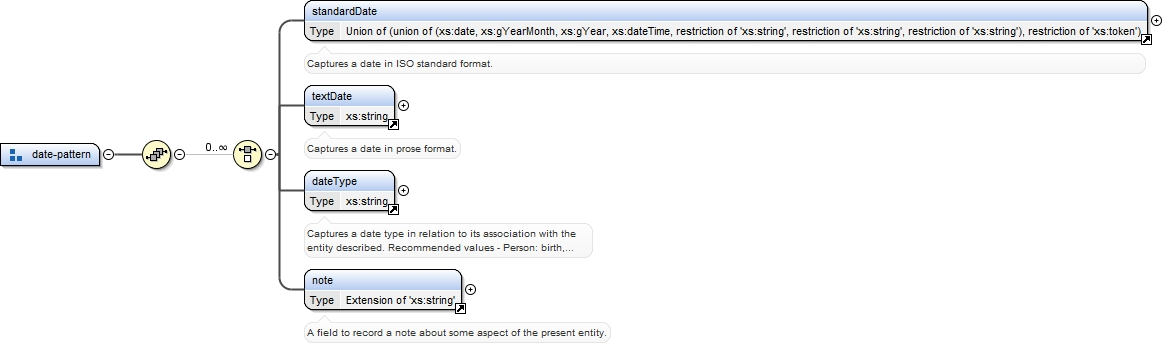
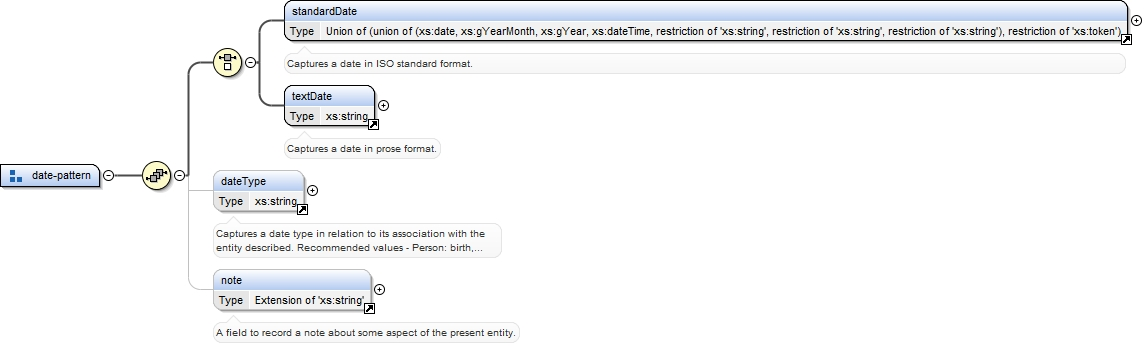
Entities schema and documentation revisions [MRB]

Changed region(s): [[0.0, 0.4046, 0.5201, 1.0], [0.153, 0.0, 1.0, 0.3757]]

diff --git a/schema/documentation/entities/index.html b/schema/documentation/entities/index.html
@@ -2315,7 +2315,7 @@
                            <div class="floatRight"><input id="button_diagram_personRecordInfo-element_recordInfo" type="image" src="img/btM.gif" value="-" onclick="switchState('diagram_personRecordInfo-element_recordInfo');" class="control" /></div>
                         </td>
                         <td class="diagram">
-                           <div id="diagram_personRecordInfo-element_recordInfo" style="display:block"><img alt="Diagram" border="0" src="img/entities_xsd_Element_recordInfo_3.jpeg" usemap="#entities_xsd_Element_recordInfo_3" /><map name="entities_xsd_Element_recordInfo_3" id="entities_xsd_Element_recordInfo_3">
+                           <div id="diagram_personRecordInfo-element_recordInfo" style="display:block"><img alt="Diagram" border="0" src="img/entities_xsd_Element_recordInfo.jpeg" usemap="#entities_xsd_Element_recordInfo" /><map name="entities_xsd_Element_recordInfo" id="entities_xsd_Element_recordInfo">
                                  <area alt="index.tmp#id" href="index.html#id" coords="163,41,240,66" />
                                  <area alt="index.tmp#personTypes" href="index.html#personTypes" coords="220,83,315,108" />
                                  <area alt="index.tmp#originInfo" href="index.html#originInfo" coords="220,163,295,188" />
@@ -4035,7 +4035,7 @@
                            <div class="floatRight"><input id="button_diagram_identity-element_identity" type="image" src="img/btM.gif" value="-" onclick="switchState('diagram_identity-element_identity');" class="control" /></div>
                         </td>
                         <td class="diagram">
-                           <div id="diagram_identity-element_identity" style="display:block"><img alt="Diagram" border="0" src="img/entities_xsd_Element_identity_1.jpeg" usemap="#entities_xsd_Element_identity_1" /><map name="entities_xsd_Element_identity_1" id="entities_xsd_Element_identity_1">
+                           <div id="diagram_identity-element_identity" style="display:block"><img alt="Diagram" border="0" src="img/entities_xsd_Element_identity.jpeg" usemap="#entities_xsd_Element_identity" /><map name="entities_xsd_Element_identity" id="entities_xsd_Element_identity">
                                  <area alt="index.tmp#id" href="index.html#id" coords="147,41,224,66" />
                                  <area alt="index.tmp#preferredForm" href="index.html#preferredForm" coords="204,83,305,108" />
                                  <area alt="index.tmp#displayLabel" href="index.html#displayLabel" coords="204,163,309,207" />
@@ -5663,7 +5663,7 @@
                            <div class="floatRight"><input id="button_diagram_personDescription-element_description" type="image" src="img/btM.gif" value="-" onclick="switchState('diagram_personDescription-element_description');" class="control" /></div>
                         </td>
                         <td class="diagram">
-                           <div id="diagram_personDescription-element_description" style="display:block"><img alt="Diagram" border="0" src="img/entities_xsd_Element_description_1.jpeg" usemap="#entities_xsd_Element_description_1" /><map name="entities_xsd_Element_description_1" id="entities_xsd_Element_description_1">
+                           <div id="diagram_personDescription-element_description" style="display:block"><img alt="Diagram" border="0" src="img/entities_xsd_Element_description.jpeg" usemap="#entities_xsd_Element_description" /><map name="entities_xsd_Element_description" id="entities_xsd_Element_description">
                                  <area alt="index.tmp#id" href="index.html#id" coords="166,41,243,66" />
                                  <area alt="index.tmp#descriptiveNotes" href="index.html#descriptiveNotes" coords="223,83,335,108" />
                                  <area alt="index.tmp#existDates" href="index.html#existDates" coords="223,163,305,188" />
@@ -6334,10 +6334,10 @@
                            <div id="diagram_dateSingle" style="display:block"><img alt="Diagram" border="0" src="img/entities_xsd_Element_dateSingle.jpeg" usemap="#entities_xsd_Element_dateSingle" /><map name="entities_xsd_Element_dateSingle" id="entities_xsd_Element_dateSingle">
                                  <area alt="index.tmp#id" href="index.html#id" coords="143,41,220,66" />
                                  <area alt="index.tmp#NO_NAMESPACE_date-pattern" href="index.html#NO_NAMESPACE_date-pattern" coords="146,79,260,105" />
-                                 <area alt="index.tmp#standardDate" href="index.html#standardDate" coords="305,171,1163,215" />
-                                 <area alt="index.tmp#textDate" href="index.html#textDate" coords="305,256,410,300" />
-                                 <area alt="index.tmp#dateType" href="index.html#dateType" coords="305,341,410,385" />
-                                 <area alt="index.tmp#note" href="index.html#note" coords="305,440,477,484" />
+                                 <area alt="index.tmp#standardDate" href="index.html#standardDate" coords="285,171,1143,215" />
+                                 <area alt="index.tmp#textDate" href="index.html#textDate" coords="285,256,390,300" />
+                                 <area alt="index.tmp#dateType" href="index.html#dateType" coords="214,341,319,385" />
+                                 <area alt="index.tmp#note" href="index.html#note" coords="214,440,386,484" />
                                  <area alt="index.tmp#date-pattern" href="index.html#date-pattern" coords="132,130,246,156" /></map></div>
                         </td>
                      </tr>
@@ -6377,8 +6377,7 @@
                         <td class="firstColumn"><b>Model</b><div class="floatRight"><input id="button_model_dateSingle" type="image" src="img/btM.gif" value="-" onclick="switchState('model_dateSingle');" class="control" /></div>
                         </td>
                         <td>
-                           <div id="model_dateSingle" style="display:block">(<b><a href="index.html#standardDate" target="_self" title="No namespace">standardDate</a></b> | <b><a href="index.html#textDate" target="_self" title="No namespace">textDate</a></b> | <b><a href="index.html#dateType" target="_self" title="No namespace">dateType</a></b> | <b><a href="index.html#note" target="_self" title="No namespace">note</a></b>)
-                           </div>
+                           <div id="model_dateSingle" style="display:block">(<b><a href="index.html#standardDate" target="_self" title="No namespace">standardDate</a></b> | <b><a href="index.html#textDate" target="_self" title="No namespace">textDate</a></b>) , <b><a href="index.html#dateType" target="_self" title="No namespace">dateType{0,1}</a></b> , <b><a href="index.html#note" target="_self" title="No namespace">note{0,1}</a></b></div>
                         </td>
                      </tr>
                      <tr>
@@ -6397,8 +6396,8 @@
                                     <td width="100%"><pre><span class="tEl">&lt;dateSingle</span><span class="tT"> </span><span class="tAN">cert=</span><span class="tAV">""</span><span class="tT"> </span><span class="tAN">xml:id=</span><span class="tAV">""</span><span class="tEl">&gt;</span><span class="tI">
   </span><span class="tEl">&lt;standardDate</span><span class="tEl">&gt;</span><span class="tT" style="white-space:normal">{1,1}</span><span class="tEl">&lt;/standardDate&gt;</span><span class="tI">
   </span><span class="tEl">&lt;textDate</span><span class="tEl">&gt;</span><span class="tT" style="white-space:normal">{1,1}</span><span class="tEl">&lt;/textDate&gt;</span><span class="tI">
-  </span><span class="tEl">&lt;dateType</span><span class="tEl">&gt;</span><span class="tT" style="white-space:normal">{1,1}</span><span class="tEl">&lt;/dateType&gt;</span><span class="tI">
-  </span><span class="tEl">&lt;note</span><span class="tT"> </span><span class="tAN">xml:id=</span><span class="tAV">""</span><span class="tT"> </span><span class="tAN">xml:lang=</span><span class="tAV">""</span><span class="tEl">&gt;</span><span class="tT" style="white-space:normal">{1,1}</span><span class="tEl">&lt;/note&gt;</span><span class="tI">
+  </span><span class="tEl">&lt;dateType</span><span class="tEl">&gt;</span><span class="tT" style="white-space:normal">{0,1}</span><span class="tEl">&lt;/dateType&gt;</span><span class="tI">
+  </span><span class="tEl">&lt;note</span><span class="tT"> </span><span class="tAN">xml:id=</span><span class="tAV">""</span><span class="tT"> </span><span class="tAN">xml:lang=</span><span class="tAV">""</span><span class="tEl">&gt;</span><span class="tT" style="white-space:normal">{0,1}</span><span class="tEl">&lt;/note&gt;</span><span class="tI">
 </span><span class="tEl">&lt;/dateSingle&gt;</span></pre></td>
                                  </tr>
                               </table>
@@ -7052,10 +7051,10 @@
                            <div id="diagram_fromDate" style="display:block"><img alt="Diagram" border="0" src="img/entities_xsd_Element_fromDate.jpeg" usemap="#entities_xsd_Element_fromDate" /><map name="entities_xsd_Element_fromDate" id="entities_xsd_Element_fromDate">
                                  <area alt="index.tmp#id" href="index.html#id" coords="137,41,214,66" />
                                  <area alt="index.tmp#NO_NAMESPACE_date-pattern" href="index.html#NO_NAMESPACE_date-pattern" coords="140,79,254,105" />
-                                 <area alt="index.tmp#standardDate" href="index.html#standardDate" coords="299,171,1157,215" />
-                                 <area alt="index.tmp#textDate" href="index.html#textDate" coords="299,256,404,300" />
-                                 <area alt="index.tmp#dateType" href="index.html#dateType" coords="299,341,404,385" />
-                                 <area alt="index.tmp#note" href="index.html#note" coords="299,440,471,484" />
+                                 <area alt="index.tmp#standardDate" href="index.html#standardDate" coords="279,171,1137,215" />
+                                 <area alt="index.tmp#textDate" href="index.html#textDate" coords="279,256,384,300" />
+                                 <area alt="index.tmp#dateType" href="index.html#dateType" coords="208,341,313,385" />
+                                 <area alt="index.tmp#note" href="index.html#note" coords="208,440,380,484" />
                                  <area alt="index.tmp#date-pattern" href="index.html#date-pattern" coords="126,130,240,156" /></map></div>
                         </td>
                      </tr>
@@ -7095,8 +7094,7 @@
                         <td class="firstColumn"><b>Model</b><div class="floatRight"><input id="button_model_fromDate" type="image" src="img/btM.gif" value="-" onclick="switchState('model_fromDate');" class="control" /></div>
                         </td>
                         <td>
-                           <div id="model_fromDate" style="display:block">(<b><a href="index.html#standardDate" target="_self" title="No namespace">standardDate</a></b> | <b><a href="index.html#textDate" target="_self" title="No namespace">textDate</a></b> | <b><a href="index.html#dateType" target="_self" title="No namespace">dateType</a></b> | <b><a href="index.html#note" target="_self" title="No namespace">note</a></b>)
-                           </div>
+                           <div id="model_fromDate" style="display:block">(<b><a href="index.html#standardDate" target="_self" title="No namespace">standardDate</a></b> | <b><a href="index.html#textDate" target="_self" title="No namespace">textDate</a></b>) , <b><a href="index.html#dateType" target="_self" title="No namespace">dateType{0,1}</a></b> , <b><a href="index.html#note" target="_self" title="No namespace">note{0,1}</a></b></div>
                         </td>
                      </tr>
                      <tr>
@@ -7115,8 +7113,8 @@
                                     <td width="100%"><pre><span class="tEl">&lt;fromDate</span><span class="tT"> </span><span class="tAN">cert=</span><span class="tAV">""</span><span class="tT"> </span><span class="tAN">xml:id=</span><span class="tAV">""</span><span class="tEl">&gt;</span><span class="tI">
   </span><span class="tEl">&lt;standardDate</span><span class="tEl">&gt;</span><span class="tT" style="white-space:normal">{1,1}</span><span class="tEl">&lt;/standardDate&gt;</span><span class="tI">
   </span><span class="tEl">&lt;textDate</span><span class="tEl">&gt;</span><span class="tT" style="white-space:normal">{1,1}</span><span class="tEl">&lt;/textDate&gt;</span><span class="tI">
-  </span><span class="tEl">&lt;dateType</span><span class="tEl">&gt;</span><span class="tT" style="white-space:normal">{1,1}</span><span class="tEl">&lt;/dateType&gt;</span><span class="tI">
-  </span><span class="tEl">&lt;note</span><span class="tT"> </span><span class="tAN">xml:id=</span><span class="tAV">""</span><span class="tT"> </span><span class="tAN">xml:lang=</span><span class="tAV">""</span><span class="tEl">&gt;</span><span class="tT" style="white-space:normal">{1,1}</span><span class="tEl">&lt;/note&gt;</span><span class="tI">
+  </span><span class="tEl">&lt;dateType</span><span class="tEl">&gt;</span><span class="tT" style="white-space:normal">{0,1}</span><span class="tEl">&lt;/dateType&gt;</span><span class="tI">
+  </span><span class="tEl">&lt;note</span><span class="tT"> </span><span class="tAN">xml:id=</span><span class="tAV">""</span><span class="tT"> </span><span class="tAN">xml:lang=</span><span class="tAV">""</span><span class="tEl">&gt;</span><span class="tT" style="white-space:normal">{0,1}</span><span class="tEl">&lt;/note&gt;</span><span class="tI">
 </span><span class="tEl">&lt;/fromDate&gt;</span></pre></td>
                                  </tr>
                               </table>
@@ -7243,10 +7241,10 @@
                            <div id="diagram_toDate" style="display:block"><img alt="Diagram" border="0" src="img/entities_xsd_Element_toDate.jpeg" usemap="#entities_xsd_Element_toDate" /><map name="entities_xsd_Element_toDate" id="entities_xsd_Element_toDate">
                                  <area alt="index.tmp#id" href="index.html#id" coords="124,41,201,66" />
                                  <area alt="index.tmp#NO_NAMESPACE_date-pattern" href="index.html#NO_NAMESPACE_date-pattern" coords="127,79,241,105" />
-                                 <area alt="index.tmp#standardDate" href="index.html#standardDate" coords="286,171,1144,215" />
-                                 <area alt="index.tmp#textDate" href="index.html#textDate" coords="286,256,391,300" />
-                                 <area alt="index.tmp#dateType" href="index.html#dateType" coords="286,341,391,385" />
-                                 <area alt="index.tmp#note" href="index.html#note" coords="286,440,458,484" />
+                                 <area alt="index.tmp#standardDate" href="index.html#standardDate" coords="266,171,1124,215" />
+                                 <area alt="index.tmp#textDate" href="index.html#textDate" coords="266,256,371,300" />
+                                 <area alt="index.tmp#dateType" href="index.html#dateType" coords="195,341,300,385" />
+                                 <area alt="index.tmp#note" href="index.html#note" coords="195,440,367,484" />
                                  <area alt="index.tmp#date-pattern" href="index.html#date-pattern" coords="113,130,227,156" /></map></div>
                         </td>
                      </tr>
@@ -7286,8 +7284,7 @@
                         <td class="firstColumn"><b>Model</b><div class="floatRight"><input id="button_model_toDate" type="image" src="img/btM.gif" value="-" onclick="switchState('model_toDate');" class="control" /></div>
                         </td>
                         <td>
-                           <div id="model_toDate" style="display:block">(<b><a href="index.html#standardDate" target="_self" title="No namespace">standardDate</a></b> | <b><a href="index.html#textDate" target="_self" title="No namespace">textDate</a></b> | <b><a href="index.html#dateType" target="_self" title="No namespace">dateType</a></b> | <b><a href="index.html#note" target="_self" title="No namespace">note</a></b>)
-                           </div>
+                           <div id="model_toDate" style="display:block">(<b><a href="index.html#standardDate" target="_self" title="No namespace">standardDate</a></b> | <b><a href="index.html#textDate" target="_self" title="No namespace">textDate</a></b>) , <b><a href="index.html#dateType" target="_self" title="No namespace">dateType{0,1}</a></b> , <b><a href="index.html#note" target="_self" title="No namespace">note{0,1}</a></b></div>
                         </td>
                      </tr>
                      <tr>
@@ -7306,8 +7303,8 @@
                                     <td width="100%"><pre><span class="tEl">&lt;toDate</span><span class="tT"> </span><span class="tAN">cert=</span><span class="tAV">""</span><span class="tT"> </span><span class="tAN">xml:id=</span><span class="tAV">""</span><span class="tEl">&gt;</span><span class="tI">
   </span><span class="tEl">&lt;standardDate</span><span class="tEl">&gt;</span><span class="tT" style="white-space:normal">{1,1}</span><span class="tEl">&lt;/standardDate&gt;</span><span class="tI">
   </span><span class="tEl">&lt;textDate</span><span class="tEl">&gt;</span><span class="tT" style="white-space:normal">{1,1}</span><span class="tEl">&lt;/textDate&gt;</span><span class="tI">
-  </span><span class="tEl">&lt;dateType</span><span class="tEl">&gt;</span><span class="tT" style="white-space:normal">{1,1}</span><span class="tEl">&lt;/dateType&gt;</span><span class="tI">
-  </span><span class="tEl">&lt;note</span><span class="tT"> </span><span class="tAN">xml:id=</span><span class="tAV">""</span><span class="tT"> </span><span class="tAN">xml:lang=</span><span class="tAV">""</span><span class="tEl">&gt;</span><span class="tT" style="white-space:normal">{1,1}</span><span class="tEl">&lt;/note&gt;</span><span class="tI">
+  </span><span class="tEl">&lt;dateType</span><span class="tEl">&gt;</span><span class="tT" style="white-space:normal">{0,1}</span><span class="tEl">&lt;/dateType&gt;</span><span class="tI">
+  </span><span class="tEl">&lt;note</span><span class="tT"> </span><span class="tAN">xml:id=</span><span class="tAV">""</span><span class="tT"> </span><span class="tAN">xml:lang=</span><span class="tAV">""</span><span class="tEl">&gt;</span><span class="tT" style="white-space:normal">{0,1}</span><span class="tEl">&lt;/note&gt;</span><span class="tI">
 </span><span class="tEl">&lt;/toDate&gt;</span></pre></td>
                                  </tr>
                               </table>
@@ -10166,7 +10163,7 @@
                            <div class="floatRight"><input id="button_diagram_orgRecordInfo-element_recordInfo" type="image" src="img/btM.gif" value="-" onclick="switchState('diagram_orgRecordInfo-element_recordInfo');" class="control" /></div>
                         </td>
                         <td class="diagram">
-                           <div id="diagram_orgRecordInfo-element_recordInfo" style="display:block"><img alt="Diagram" border="0" src="img/entities_xsd_Element_recordInfo_1.jpeg" usemap="#entities_xsd_Element_recordInfo_1" /><map name="entities_xsd_Element_recordInfo_1" id="entities_xsd_Element_recordInfo_1">
+                           <div id="diagram_orgRecordInfo-element_recordInfo" style="display:block"><img alt="Diagram" border="0" src="img/entities_xsd_Element_recordInfo_3.jpeg" usemap="#entities_xsd_Element_recordInfo_3" /><map name="entities_xsd_Element_recordInfo_3" id="entities_xsd_Element_recordInfo_3">
                                  <area alt="index.tmp#id" href="index.html#id" coords="163,41,240,66" />
                                  <area alt="index.tmp#originInfo" href="index.html#originInfo" coords="220,83,295,108" />
                                  <area alt="index.tmp#entityId" href="index.html#entityId" coords="220,177,411,221" />
@@ -11112,7 +11109,7 @@
                            <div class="floatRight"><input id="button_diagram_placeRecordInfo-element_recordInfo" type="image" src="img/btM.gif" value="-" onclick="switchState('diagram_placeRecordInfo-element_recordInfo');" class="control" /></div>
                         </td>
                         <td class="diagram">
-                           <div id="diagram_placeRecordInfo-element_recordInfo" style="display:block"><img alt="Diagram" border="0" src="img/entities_xsd_Element_recordInfo.jpeg" usemap="#entities_xsd_Element_recordInfo" /><map name="entities_xsd_Element_recordInfo" id="entities_xsd_Element_recordInfo">
+                           <div id="diagram_placeRecordInfo-element_recordInfo" style="display:block"><img alt="Diagram" border="0" src="img/entities_xsd_Element_recordInfo_1.jpeg" usemap="#entities_xsd_Element_recordInfo_1" /><map name="entities_xsd_Element_recordInfo_1" id="entities_xsd_Element_recordInfo_1">
                                  <area alt="index.tmp#id" href="index.html#id" coords="163,41,240,66" />
                                  <area alt="index.tmp#originInfo" href="index.html#originInfo" coords="220,83,295,108" />
                                  <area alt="index.tmp#entityId" href="index.html#entityId" coords="220,177,411,221" />
@@ -11270,7 +11267,7 @@
                            <div class="floatRight"><input id="button_diagram_placeDescription-element_description" type="image" src="img/btM.gif" value="-" onclick="switchState('diagram_placeDescription-element_description');" class="control" /></div>
                         </td>
                         <td class="diagram">
-                           <div id="diagram_placeDescription-element_description" style="display:block"><img alt="Diagram" border="0" src="img/entities_xsd_Element_description.jpeg" usemap="#entities_xsd_Element_description" /><map name="entities_xsd_Element_description" id="entities_xsd_Element_description">
+                           <div id="diagram_placeDescription-element_description" style="display:block"><img alt="Diagram" border="0" src="img/entities_xsd_Element_description_1.jpeg" usemap="#entities_xsd_Element_description_1" /><map name="entities_xsd_Element_description_1" id="entities_xsd_Element_description_1">
                                  <area alt="index.tmp#id" href="index.html#id" coords="166,41,243,66" />
                                  <area alt="index.tmp#descriptiveNotes" href="index.html#descriptiveNotes" coords="223,83,335,108" />
                                  <area alt="index.tmp#existDates" href="index.html#existDates" coords="223,163,305,188" />
@@ -12773,7 +12770,7 @@
                            <div class="floatRight"><input id="button_diagram_titleIdentity-element_identity" type="image" src="img/btM.gif" value="-" onclick="switchState('diagram_titleIdentity-element_identity');" class="control" /></div>
                         </td>
                         <td class="diagram">
-                           <div id="diagram_titleIdentity-element_identity" style="display:block"><img alt="Diagram" border="0" src="img/entities_xsd_Element_identity.jpeg" usemap="#entities_xsd_Element_identity" /><map name="entities_xsd_Element_identity" id="entities_xsd_Element_identity">
+                           <div id="diagram_titleIdentity-element_identity" style="display:block"><img alt="Diagram" border="0" src="img/entities_xsd_Element_identity_1.jpeg" usemap="#entities_xsd_Element_identity_1" /><map name="entities_xsd_Element_identity_1" id="entities_xsd_Element_identity_1">
                                  <area alt="index.tmp#id" href="index.html#id" coords="147,41,224,66" />
                                  <area alt="index.tmp#preferredForm" href="index.html#preferredForm" coords="204,83,305,108" />
                                  <area alt="index.tmp#level" href="index.html#level" coords="204,163,395,207" />
@@ -15525,10 +15522,10 @@
                         </td>
                         <td class="diagram">
                            <div id="diagram_date-pattern" style="display:block"><img alt="Diagram" border="0" src="img/entities_xsd_Element_Group_date-pattern.jpeg" usemap="#entities_xsd_Element_Group_date-pattern" /><map name="entities_xsd_Element_Group_date-pattern" id="entities_xsd_Element_Group_date-pattern">
-                                 <area alt="index.tmp#standardDate" href="index.html#standardDate" coords="304,0,1162,44" />
-                                 <area alt="index.tmp#textDate" href="index.html#textDate" coords="304,85,409,129" />
-                                 <area alt="index.tmp#dateType" href="index.html#dateType" coords="304,170,409,214" />
-                                 <area alt="index.tmp#note" href="index.html#note" coords="304,269,476,313" /></map></div>
+                                 <area alt="index.tmp#standardDate" href="index.html#standardDate" coords="284,0,1142,44" />
+                                 <area alt="index.tmp#textDate" href="index.html#textDate" coords="284,85,389,129" />
+                                 <area alt="index.tmp#dateType" href="index.html#dateType" coords="213,170,318,214" />
+                                 <area alt="index.tmp#note" href="index.html#note" coords="213,269,385,313" /></map></div>
                         </td>
                      </tr>
                      <tr>
@@ -15551,8 +15548,7 @@
                         <td class="firstColumn"><b>Model</b><div class="floatRight"><input id="button_model_date-pattern" type="image" src="img/btM.gif" value="-" onclick="switchState('model_date-pattern');" class="control" /></div>
                         </td>
                         <td>
-                           <div id="model_date-pattern" style="display:block">(<b><a href="index.html#standardDate" target="_self" title="No namespace">standardDate</a></b> | <b><a href="index.html#textDate" target="_self" title="No namespace">textDate</a></b> | <b><a href="index.html#dateType" target="_self" title="No namespace">dateType</a></b> | <b><a href="index.html#note" target="_self" title="No namespace">note</a></b>)
-                           </div>
+                           <div id="model_date-pattern" style="display:block">(<b><a href="index.html#standardDate" target="_self" title="No namespace">standardDate</a></b> | <b><a href="index.html#textDate" target="_self" title="No namespace">textDate</a></b>) , <b><a href="index.html#dateType" target="_self" title="No namespace">dateType{0,1}</a></b> , <b><a href="index.html#note" target="_self" title="No namespace">note{0,1}</a></b></div>
                         </td>
                      </tr>
                      <tr>
@@ -15570,12 +15566,12 @@
                                  <tr>
                                     <td width="100%"><pre><span class="tEl">&lt;xs:group</span><span class="tAN"> name=</span><span class="tAV">"date-pattern"</span><span class="tEl">&gt;</span><span class="tI">
   </span><span class="tEl">&lt;xs:sequence</span><span class="tEl">&gt;</span><span class="tI">
-    </span><span class="tEl">&lt;xs:choice</span><span class="tAN"> minOccurs=</span><span class="tAV">"0"</span><span class="tAN"> maxOccurs=</span><span class="tAV">"unbounded"</span><span class="tEl">&gt;</span><span class="tI">
+    </span><span class="tEl">&lt;xs:choice</span><span class="tEl">&gt;</span><span class="tI">
       </span><span class="tEl">&lt;xs:element</span><span class="tAN"> ref=</span><span class="tAV">"standardDate"</span><span class="tEl">/&gt;</span><span class="tI">
       </span><span class="tEl">&lt;xs:element</span><span class="tAN"> ref=</span><span class="tAV">"textDate"</span><span class="tEl">/&gt;</span><span class="tI">
-      </span><span class="tEl">&lt;xs:element</span><span class="tAN"> ref=</span><span class="tAV">"dateType"</span><span class="tEl">/&gt;</span><span class="tI">
-      </span><span class="tEl">&lt;xs:element</span><span class="tAN"> ref=</span><span class="tAV">"note"</span><span class="tEl">/&gt;</span><span class="tI">
     </span><span class="tEl">&lt;/xs:choice&gt;</span><span class="tI">
+    </span><span class="tEl">&lt;xs:element</span><span class="tAN"> minOccurs=</span><span class="tAV">"0"</span><span class="tAN"> ref=</span><span class="tAV">"dateType"</span><span class="tEl">/&gt;</span><span class="tI">
+    </span><span class="tEl">&lt;xs:element</span><span class="tAN"> minOccurs=</span><span class="tAV">"0"</span><span class="tAN"> ref=</span><span class="tAV">"note"</span><span class="tEl">/&gt;</span><span class="tI">
   </span><span class="tEl">&lt;/xs:sequence&gt;</span><span class="tI">
 </span><span class="tEl">&lt;/xs:group&gt;</span></pre></td>
                                  </tr>
